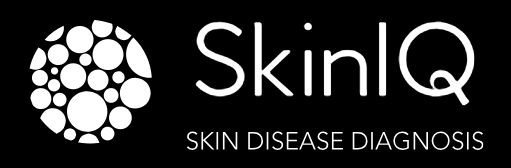
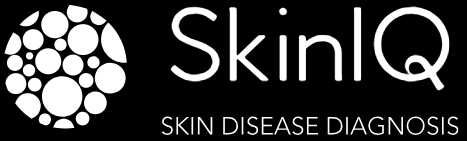
fix

diff --git a/css/style.css b/css/style.css
@@ -24,6 +24,7 @@ body {
     font-family: 'Rubik', sans-serif;
     position: relative;
     background: black;
+    overflow: hidden;
 }
 
 a {
@@ -170,13 +171,13 @@ p.lead {
 ----------------------*/
 
 .logo {
-    width: 36%;
-    height: 18%;
+    width: 35%;
 }
 
 .nav-menu {
     padding: 1rem 0;
     transition: all 0.3s ease;
+    background-color: black;
 }
 
 .nav-menu.is-scrolling,
@@ -251,7 +252,7 @@ header {
 
 .img-holder {
     height: 0;
-    padding-bottom: 24%;
+    padding-bottom: 30%;
     overflow: hidden;
 }
 
